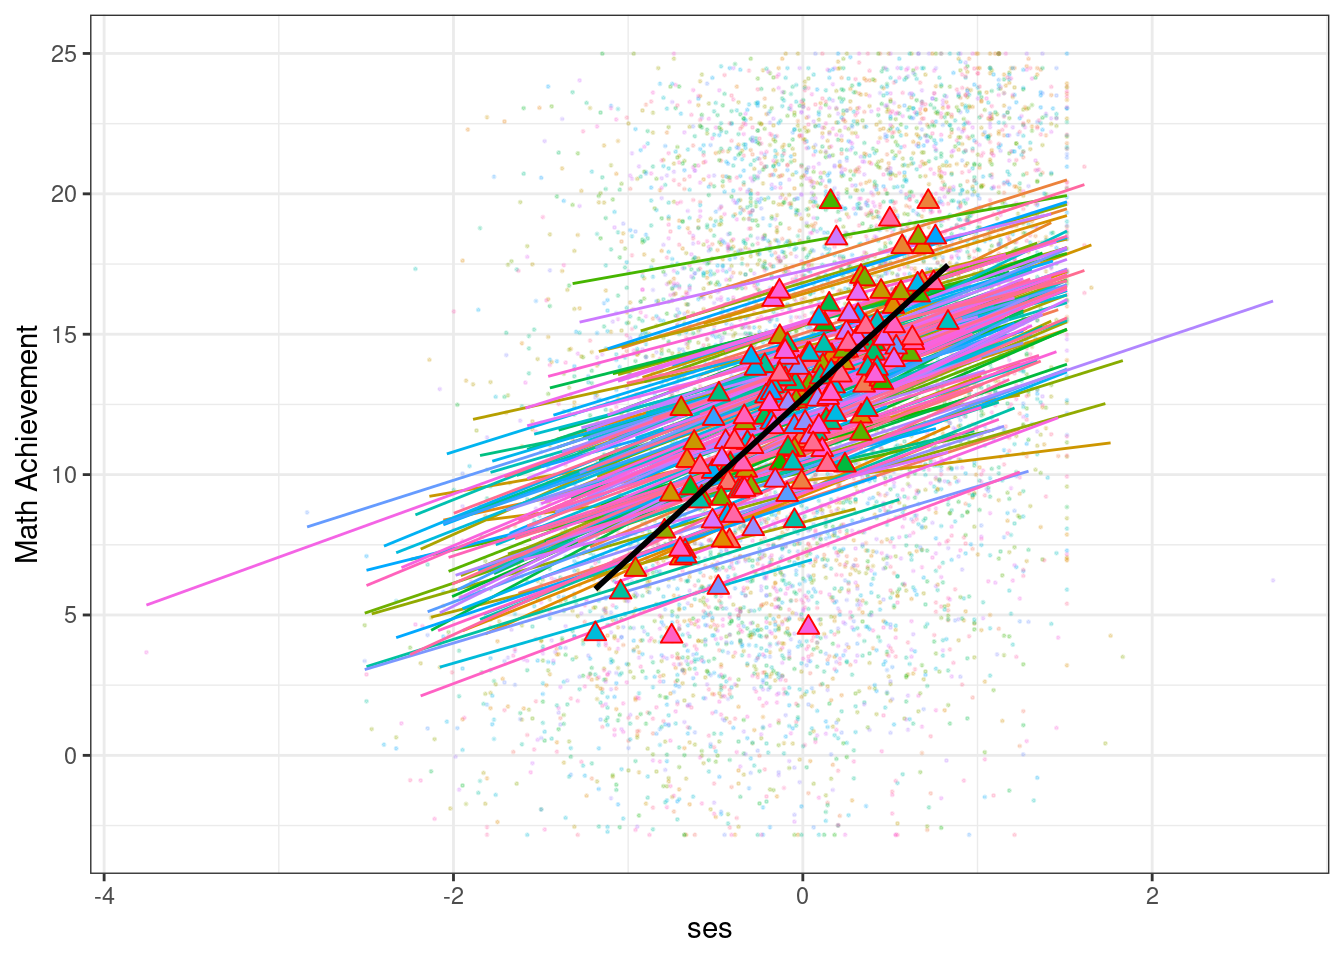
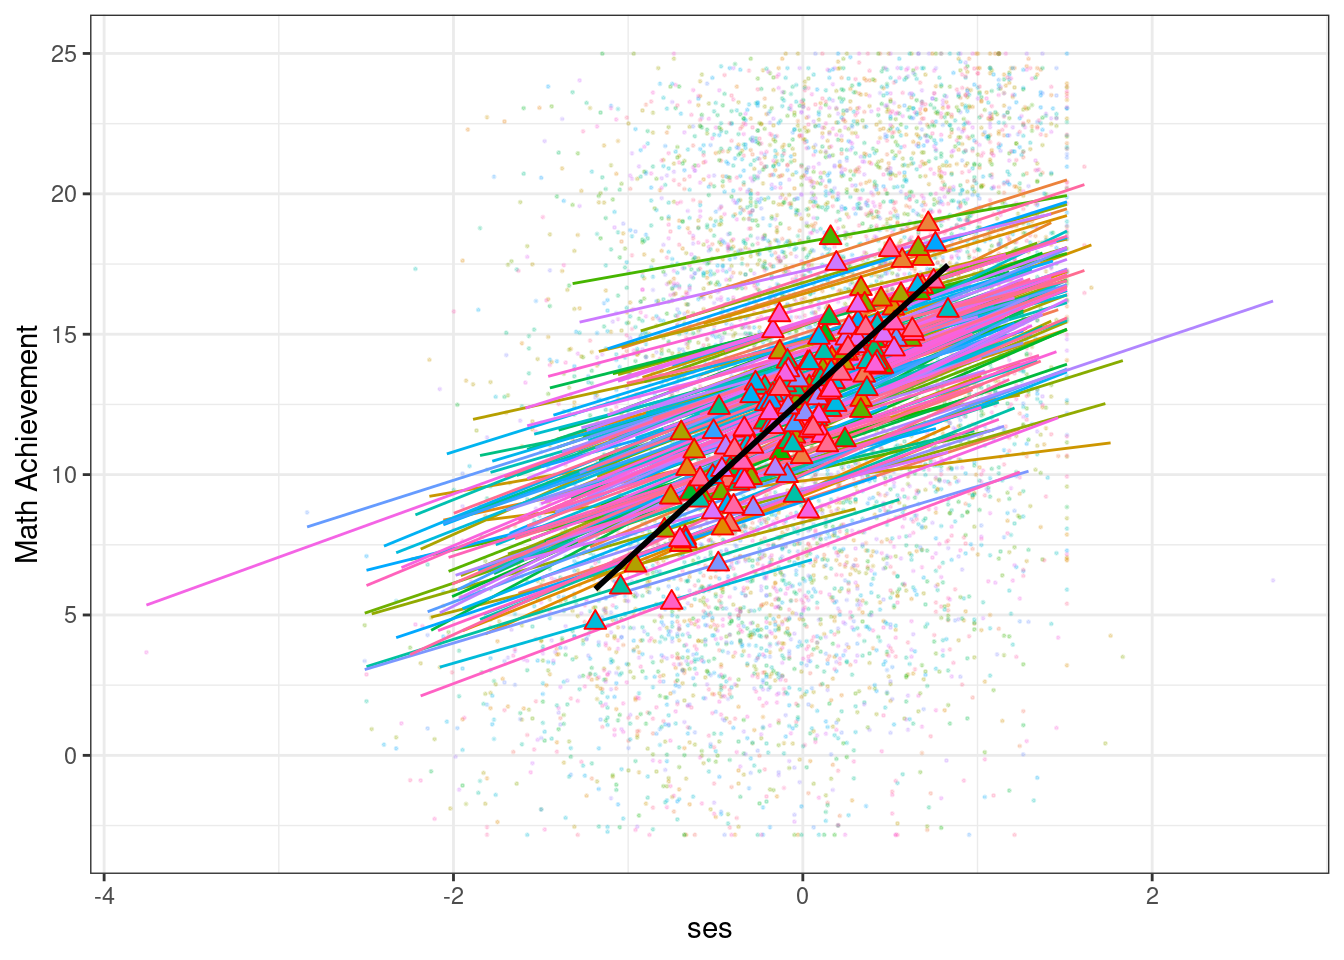
Update Week 9 R codes

Changed region(s): [[0.4375, 0.1875, 0.7188, 0.6875], [0.5938, 0.625, 0.625, 0.6562]]

diff --git a/content/courses/psyc575/rcode8.html b/content/courses/psyc575/rcode8.html
@@ -4,7 +4,7 @@ linktitle: R Codes (wk 9)
 type: docs
 date: "2020-09-29T21:27:00+01:00"
 draft: false
-lastmod: '2020-10-06'
+lastmod: '2020-10-10'
 rmd: "rcodes/week9-longitudinal-1"
 menu:
   psyc575:
@@ -55,6 +55,9 @@ weight: 2
 </div>
 
 {{% rmd-buttons %}}
+{{% youtube "5MjpANrrHi0" %}}
+{{% youtube "2QxEh2L9f1A" %}}
+{{% youtube "JzRrnwLYLYM" %}}
 <div id="load-packages-and-import-data" class="section level2">
 <h2>Load Packages and Import Data</h2>
 <pre class="r"><code># To install a package, run the following ONCE (and only once on your computer)
@@ -87,9 +90,6 @@ msummary_mixed &lt;- function(models, coef_map = NULL, add_rows = NULL, ...) {
   length_fes &lt;- length(coef_map) - length(ranef_index)
   attr(rows, &#39;position&#39;) &lt;- c(1, (length_fes + 1) * 2)
   modelsummary::msummary(models, coef_map = coef_map, add_rows = rows, ...)
-}
-glance_custom.brmsfit &lt;- function(x) {
-  broom.mixed::glance(x, looic = TRUE)
 }
 theme_set(theme_bw())  # Theme; just my personal preference</code></pre>
 <p>Because Bayesian estimation is a bit more intensive, you may want to set up parallel processing if your computers have two cores or more.</p>
@@ -169,7 +169,7 @@ trajectory of change.</p>
   geom_point() + 
   geom_line() +  # add lines to connect the data for each person
   facet_wrap( ~ id, ncol = 10)</code></pre>
-<pre><code>&gt;# Warning: Removed 27 rows containing missing values (geom_point).</code></pre>
+<pre><code>&gt;# Warning: Removed 34 rows containing missing values (geom_point).</code></pre>
 <pre><code>&gt;# Warning: Removed 2 row(s) containing missing values (geom_path).</code></pre>
 <p><img src="/courses/psyc575/rcode8_files/figure-html/facet-traj-1.png" width="672" /></p>
 </div>
@@ -391,6 +391,15 @@ mean(icc_samples)</code></pre>
 <h1>Linear Growth Models</h1>
 <div id="linear-model-with-time" class="section level2">
 <h2>Linear Model With Time</h2>
+<p>Level 1: Within-Person</p>
+<p><span class="math display">\[\text{read}_{ti} = \beta_{0i} + \beta_{1i} \text{time}_{ti} + e_{ti}\]</span></p>
+<p>Level 2: Between-Person</p>
+<p><span class="math display">\[
+  \begin{aligned}
+    \beta_{0i} = \gamma_{00} + u_{0i}  \\
+    \beta_{1i} = \gamma_{10} + u_{1i}
+  \end{aligned}
+\]</span></p>
 <pre class="r"><code># Make 0 the initial time
 curran_long &lt;- curran_long %&gt;% 
   mutate(time = time - 1)
@@ -667,7 +676,8 @@ interact_plot(m_pw_homecog,
                     &quot;GCA&quot; = m_gca, 
                     &quot;Piecewise&quot; = m_pw, 
                     &quot;Piecewise + homecog&quot; = m_pw_homecog), 
-               statistic = &quot;conf.int&quot;)</code></pre>
+               statistic = &quot;conf.int&quot;, 
+               looic = TRUE)</code></pre>
 <pre><code>&gt;# Warning: Found 115 observations with a pareto_k &gt; 0.7 in model &#39;x&#39;. It is
 &gt;# recommended to set &#39;moment_match = TRUE&#39; in order to perform moment matching for
 &gt;# problematic observations.</code></pre>

diff --git a/content/courses/psyc575/rcode4.html b/content/courses/psyc575/rcode4.html
@@ -4,7 +4,7 @@ linktitle: R Codes (wk 4)
 type: docs
 date: "2020-08-27T00:00:00+01:00"
 draft: false
-lastmod: '2020-09-11'
+lastmod: '2020-10-09'
 rmd: "rcodes/week4-level-1-predictor"
 menu:
   psyc575:
@@ -307,7 +307,7 @@ augment(ran_slp, data = hsball) %&gt;%
   geom_smooth(aes(y = .fitted), 
               method = &quot;lm&quot;, se = FALSE, size = 0.5) + 
   # Add group means
-  stat_summary(aes(x = meanses, y = mathach, 
+  stat_summary(aes(x = meanses, y = .fitted, 
                    fill = factor(id)), 
                color = &quot;red&quot;,  # add border
                fun = mean, 
@@ -342,7 +342,7 @@ p1 &lt;- pbase +
 # Lv-2 effect
 p2 &lt;- pbase + 
   # Add group means
-  stat_summary(aes(x = meanses, y = mathach), 
+  stat_summary(aes(x = meanses, y = .fitted), 
                fun = mean, 
                geom = &quot;point&quot;,
                shape = 17,
@@ -663,18 +663,6 @@ SES (contextual)
 </tr>
 <tr>
 <td style="text-align:left;">
-</td>
-<td style="text-align:left;">
-</td>
-<td style="text-align:left;">
-</td>
-<td style="text-align:left;">
-</td>
-<td style="text-align:left;">
-</td>
-</tr>
-<tr>
-<td style="text-align:left;">
 <span class="math inline">\(\tau_1\)</span> (SES)
 </td>
 <td style="text-align:left;">
@@ -686,31 +674,6 @@ SES (contextual)
 </td>
 <td style="text-align:left;">
 0.521
-</td>
-</tr>
-<tr>
-<td style="text-align:left;">
-</td>
-<td style="text-align:left;">
-</td>
-<td style="text-align:left;">
-</td>
-<td style="text-align:left;">
-</td>
-<td style="text-align:left;">
-</td>
-</tr>
-<tr>
-<td style="text-align:left;">
-Random effect
-</td>
-<td style="text-align:left;">
-</td>
-<td style="text-align:left;">
-</td>
-<td style="text-align:left;">
-</td>
-<td style="text-align:left;">
 </td>
 </tr>
 <tr>
@@ -732,18 +695,6 @@ Random effect
 </tr>
 <tr>
 <td style="text-align:left;">
-</td>
-<td style="text-align:left;">
-</td>
-<td style="text-align:left;">
-</td>
-<td style="text-align:left;">
-</td>
-<td style="text-align:left;">
-</td>
-</tr>
-<tr>
-<td style="text-align:left;">
 AIC
 </td>
 <td style="text-align:left;">
@@ -757,6 +708,19 @@ AIC
 </td>
 <td style="text-align:left;">
 46532.5
+</td>
+</tr>
+<tr>
+<td style="text-align:left;">
+Random effect
+</td>
+<td style="text-align:left;">
+</td>
+<td style="text-align:left;">
+</td>
+<td style="text-align:left;">
+</td>
+<td style="text-align:left;">
 </td>
 </tr>
 <tr>

diff --git a/content/courses/psyc575/syllabus.md b/content/courses/psyc575/syllabus.md
@@ -468,7 +468,7 @@ Student feedback is essential to the instructor and the Department to keep impro
 </td>
 <td>
 
-- Hoffman ch 8
+- [Hoffman (2014) ch 8](https://www-taylorfrancis-com.libproxy1.usc.edu/books/9781315744094/chapters/10.4324/9781315744094-17)
 
 </td>
 <td>
